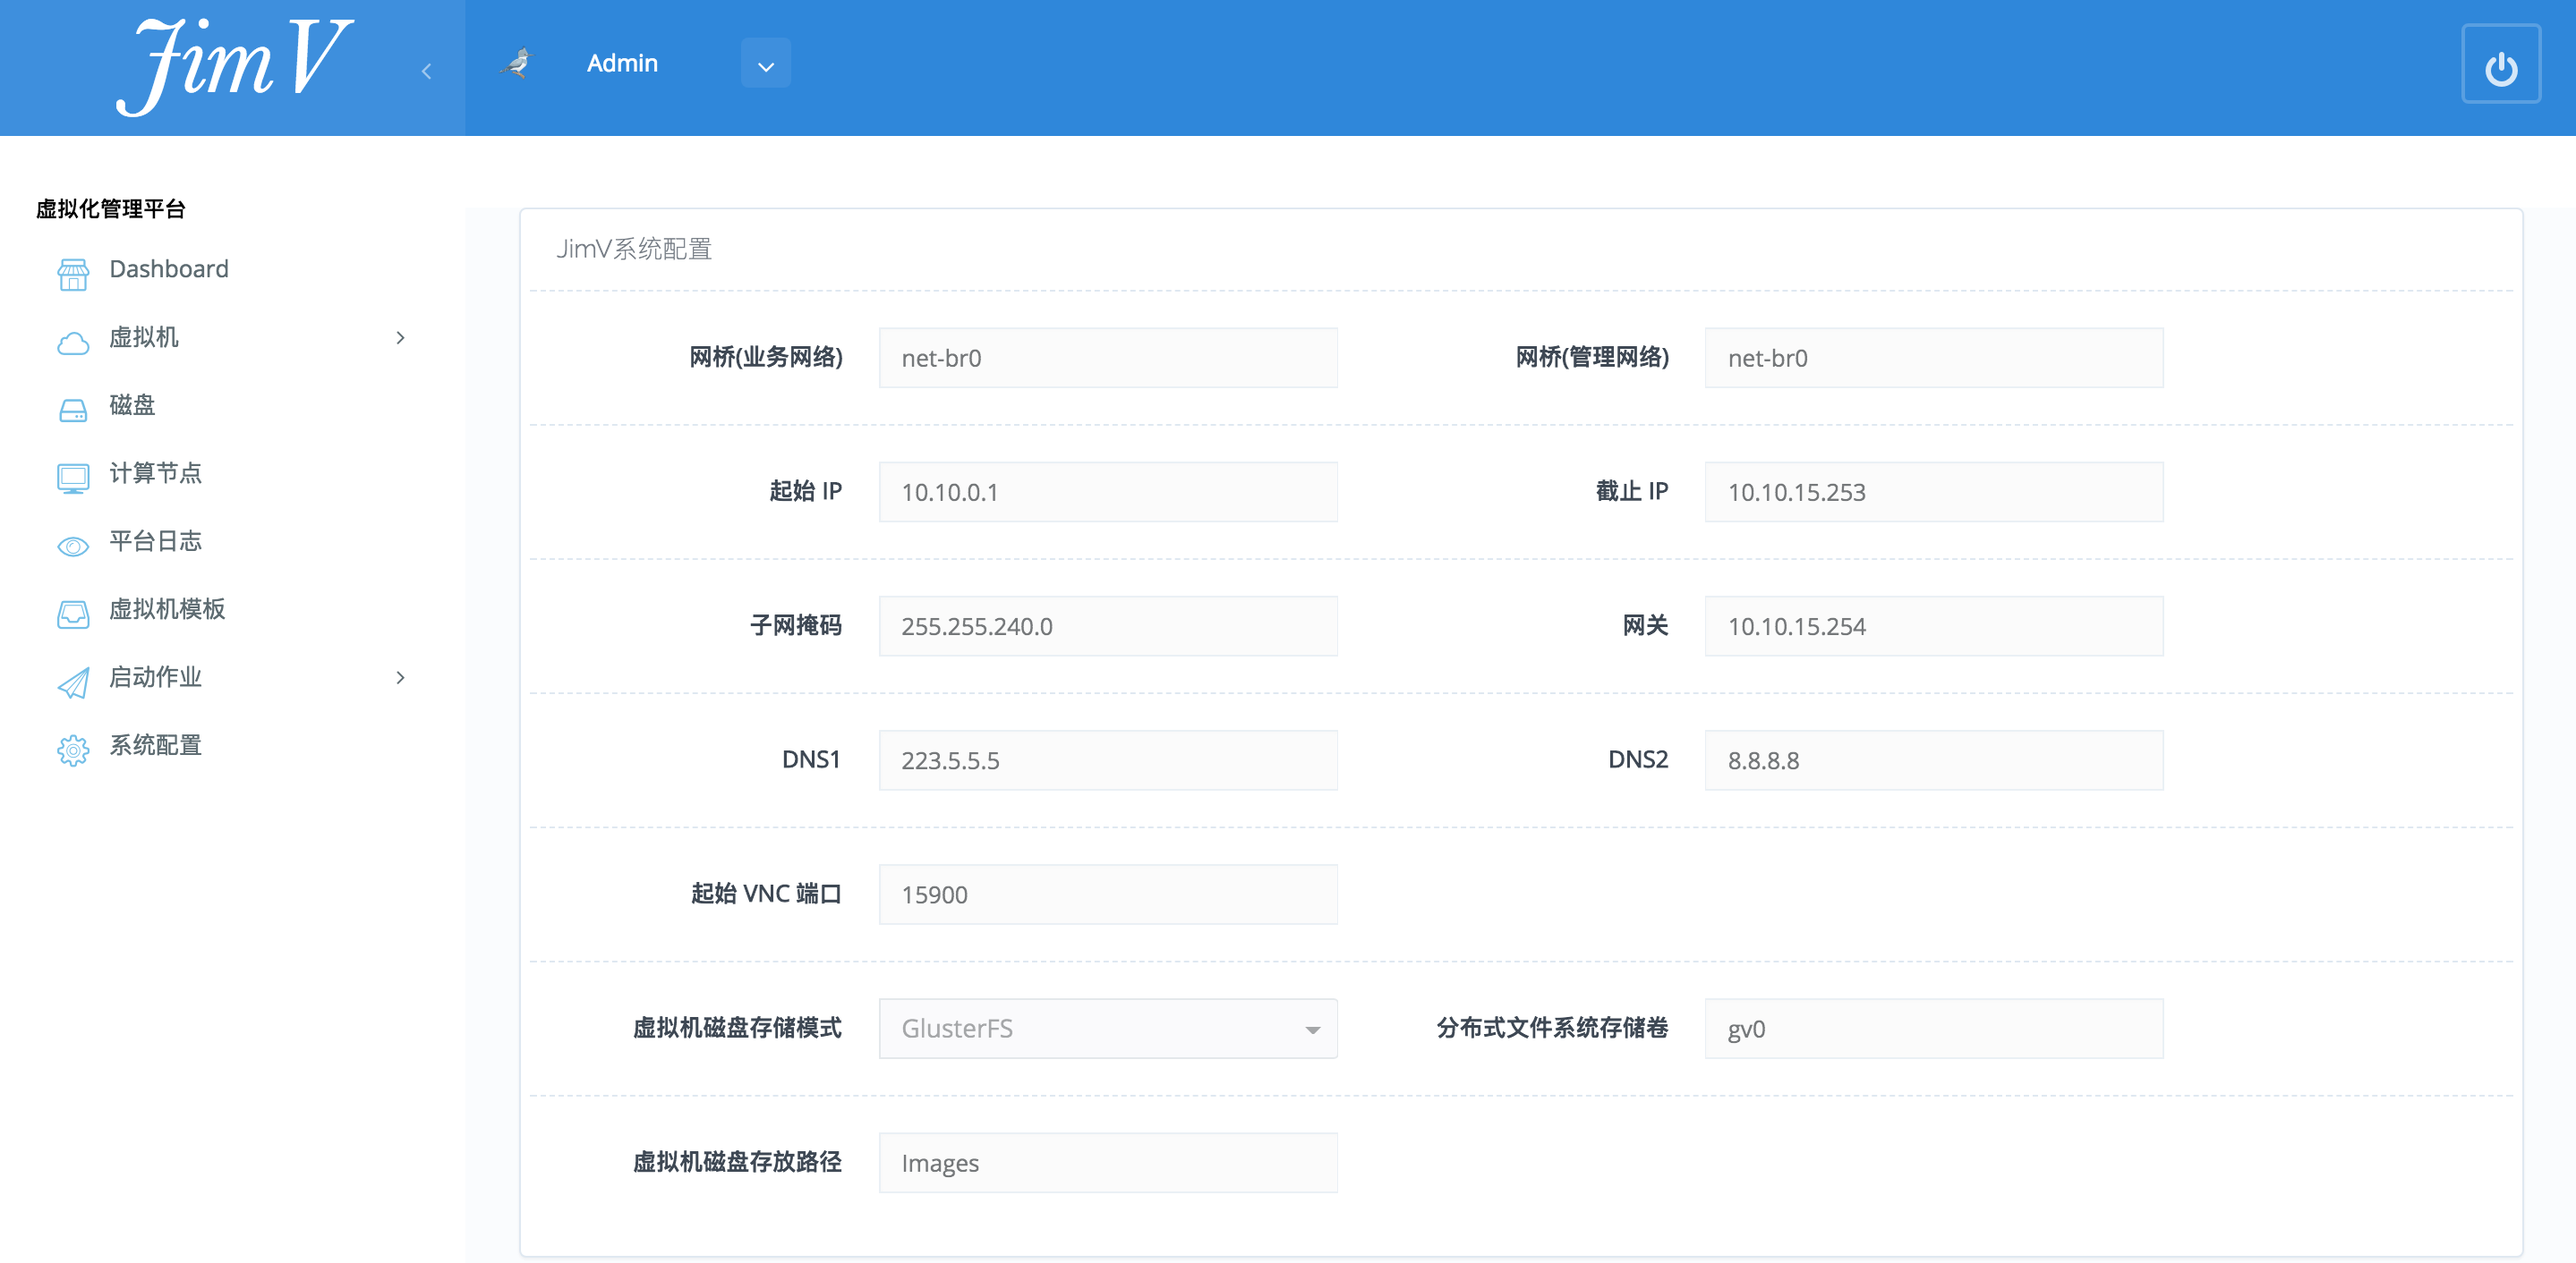
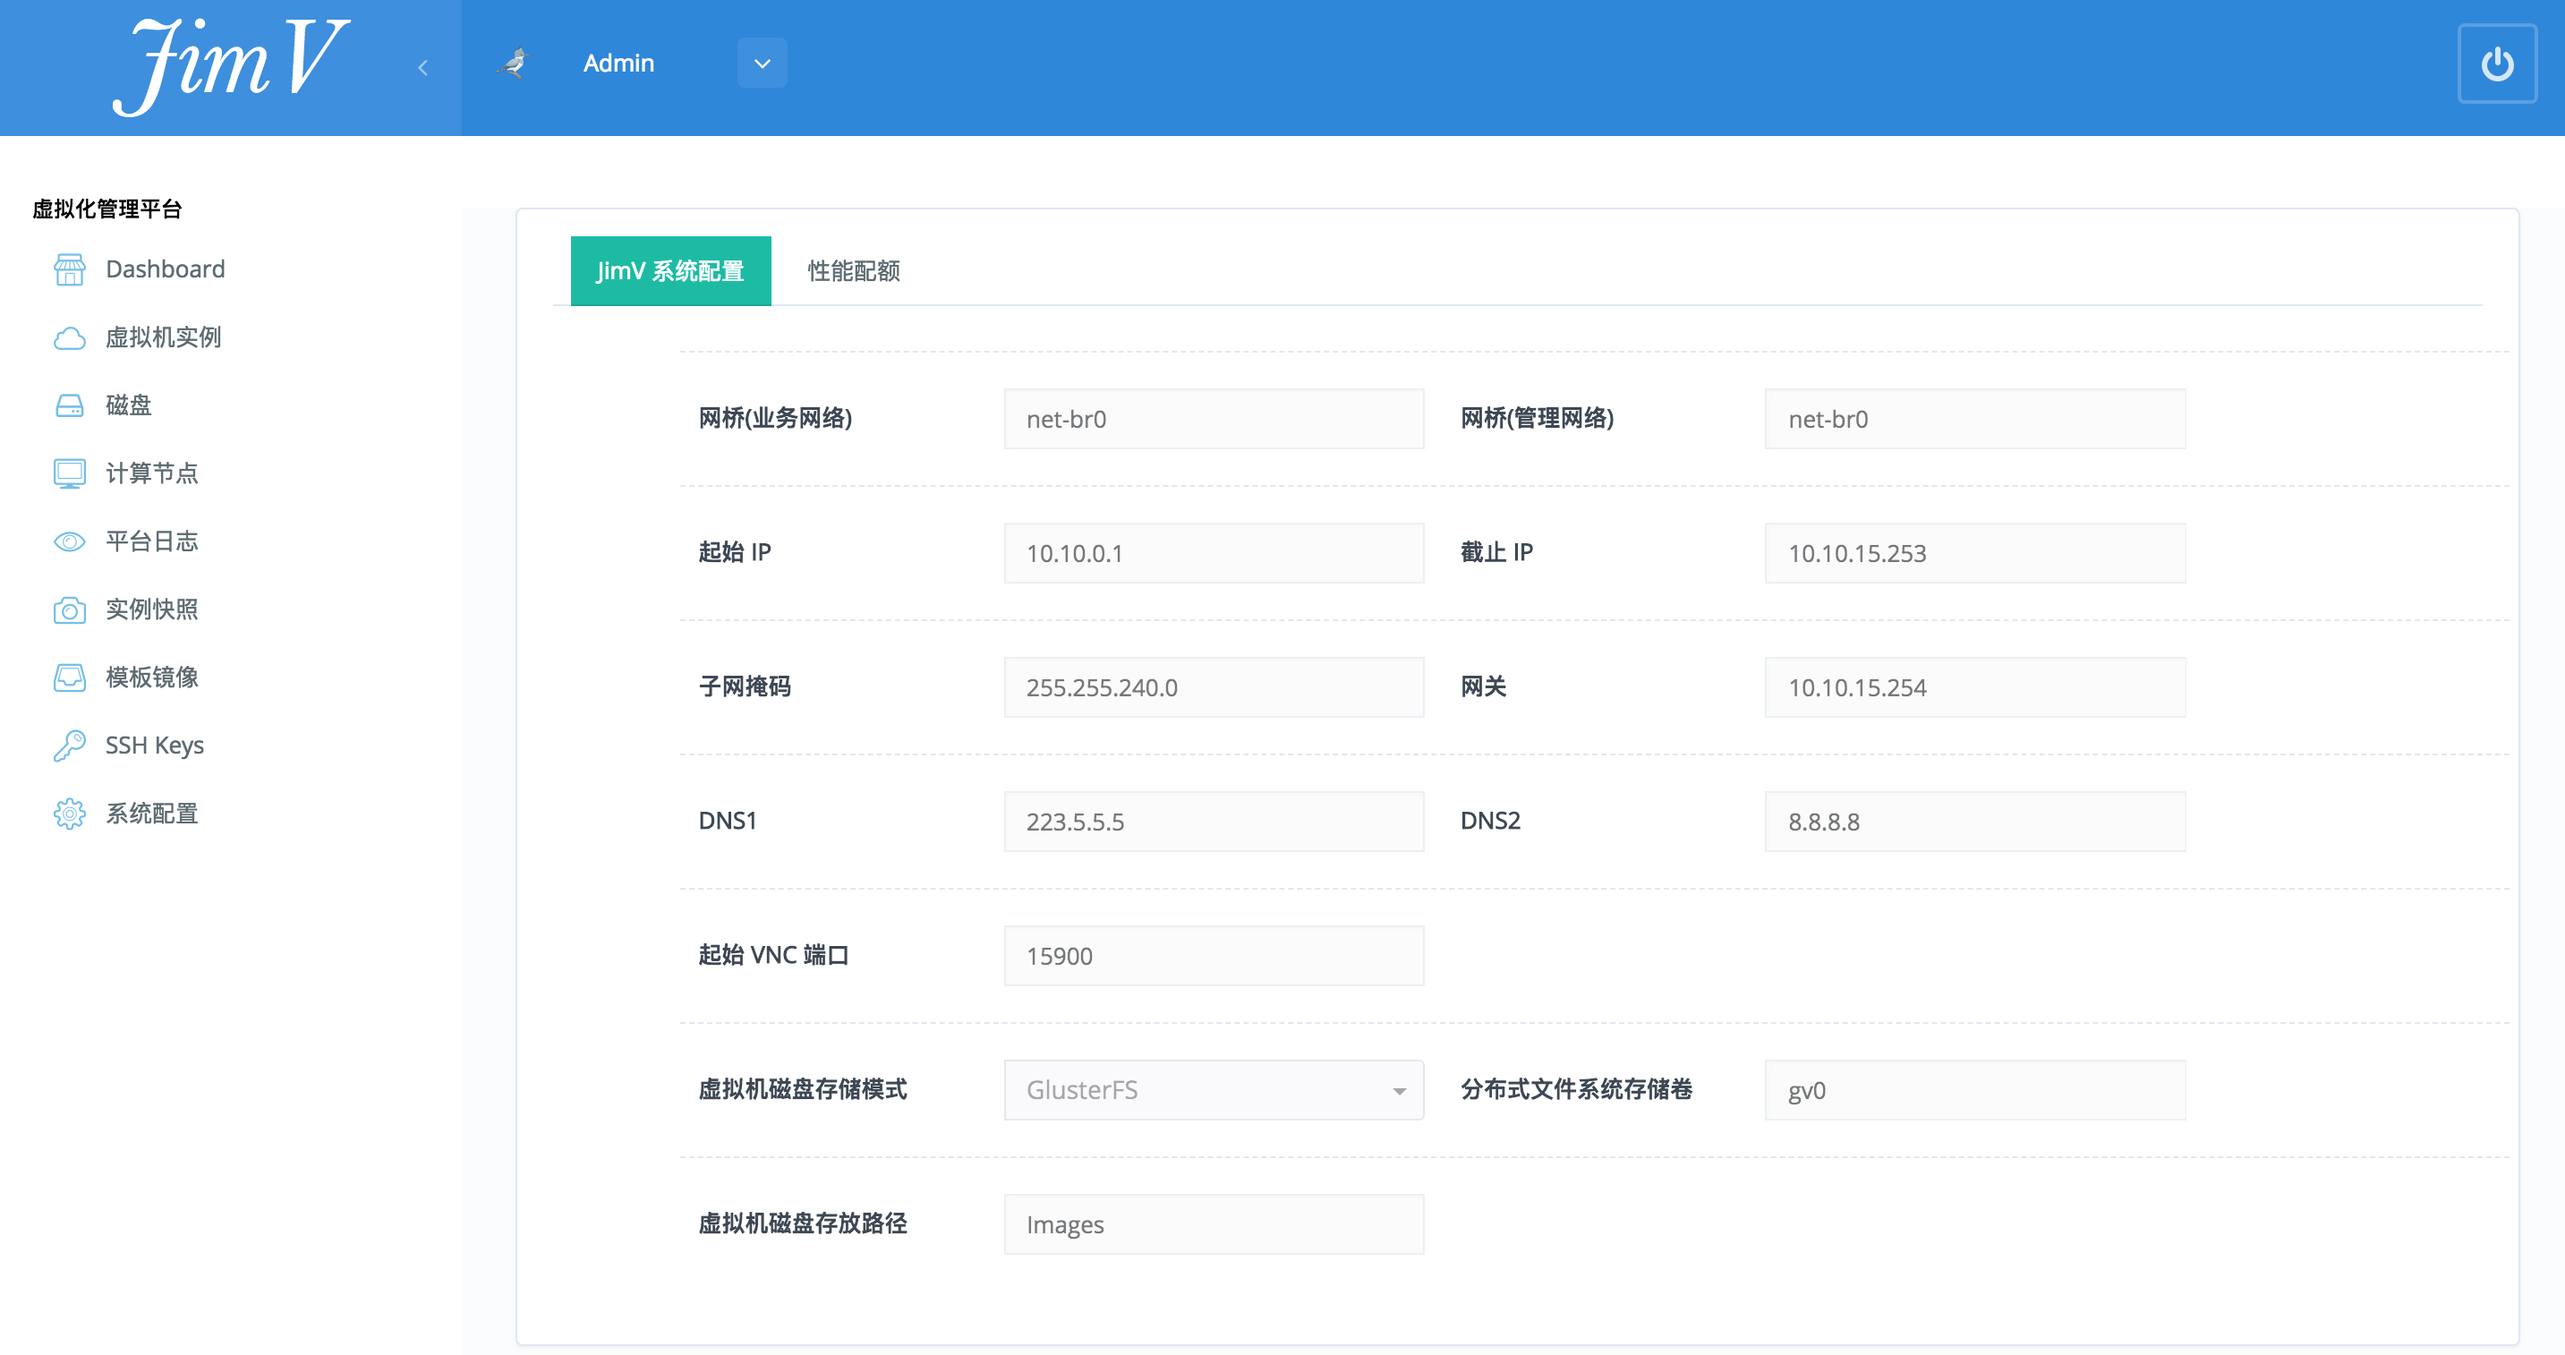
更新平台截图

diff --git a/models/event_processor.py b/models/event_processor.py
@@ -112,7 +112,6 @@ class EventProcessor(object):
             cls.guest.progress = cls.message['message']['progress']
 
         elif cls.guest.status == GuestState.snapshot_converting.value:
-            print cls.message
             cls.os_template_image.id = cls.message['message']['os_template_image_id']
             cls.os_template_image.get()
 

diff --git a/docs/screenshot.md b/docs/screenshot.md
@@ -6,14 +6,15 @@
             <img width="888" height="490" src="../screenshot/dashboard.png">
             <img width="888" height="490" src="../screenshot/dashboard02.png">
             <img width="888" height="490" src="../screenshot/vm_instance.png">
-            <img width="888" height="490" src="../screenshot/boot_job.png">
             <img width="888" height="490" src="../screenshot/guest_detail.png">
             <img width="888" height="490" src="../screenshot/disk.png">
             <img width="888" height="490" src="../screenshot/compute_node.png">
             <img width="888" height="490" src="../screenshot/host_detail.png">
             <img width="888" height="490" src="../screenshot/platform_log.png">
-            <img width="888" height="490" src="../screenshot/vm_template.png">
-            <img width="888" height="490" src="../screenshot/operate_rule.png">
+            <img width="888" height="490" src="../screenshot/snapshot.png">
+            <img width="888" height="490" src="../screenshot/os_template_public.png">
+            <img width="888" height="490" src="../screenshot/os_template_custom.png">
+            <img width="888" height="490" src="../screenshot/ssh_keys.png">
             <img width="888" height="490" src="../screenshot/system_config.png">
         </div>
     </div>
